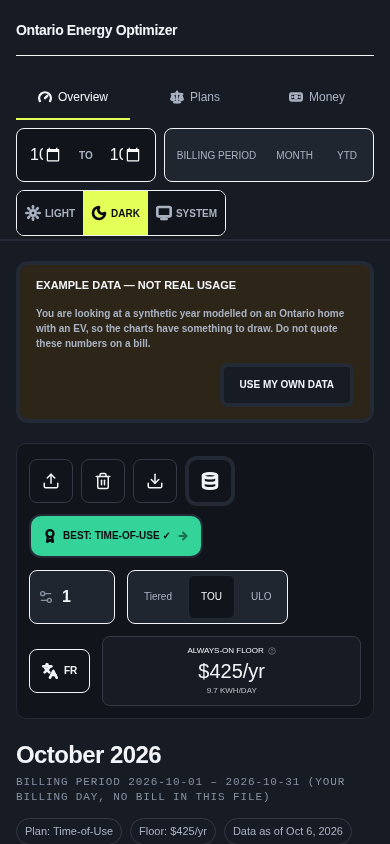
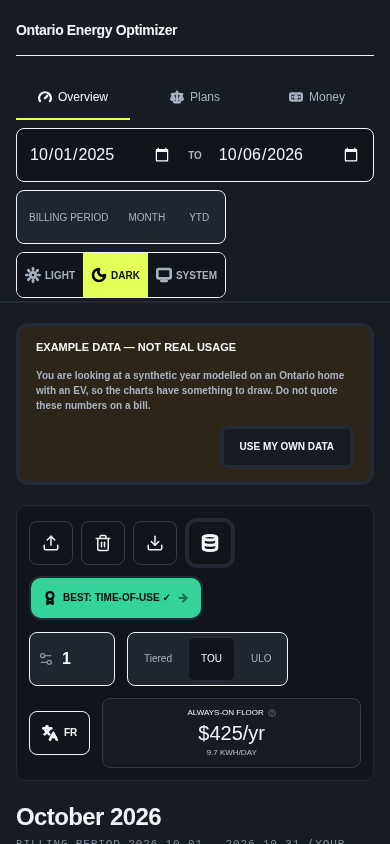
fix(ui): keep dashboard date inputs legible on mobile

diff --git a/webapp/src/components/Dashboard.tsx b/webapp/src/components/Dashboard.tsx
@@ -455,10 +455,10 @@ export default function Dashboard() {
      context for every tab, not a second, legacy toolbar below the content. */
   const dashboardContext = (
     <div data-testid="dashboard-context" className="flex min-w-0 flex-wrap items-center gap-2 md:gap-3">
-      <div data-testid="dashboard-date-range" className="flex min-w-0 flex-1 items-center gap-1 rounded-lg border border-edge-muted bg-card p-1 md:flex-none">
-        <input type="date" aria-label={t('toolbar.windowStart')} value={startDate} onChange={e => { setStartDate(e.target.value); setViewScope('Custom'); }} className="min-h-11 min-w-0 flex-1 bg-transparent px-2 py-2 text-base font-medium text-ink outline-none md:w-[9.5rem] md:flex-none md:text-sm" />
+      <div data-testid="dashboard-date-range" className="flex w-full flex-none items-center gap-1 rounded-lg border border-edge-muted bg-card p-1 md:w-auto">
+        <input type="date" aria-label={t('toolbar.windowStart')} value={startDate} onChange={e => { setStartDate(e.target.value); setViewScope('Custom'); }} className="min-h-11 min-w-[7rem] flex-1 bg-transparent px-2 py-2 text-base font-medium text-ink outline-none md:w-[9.5rem] md:min-w-0 md:flex-none md:text-sm" />
         <span data-testid="window-separator" className="shrink-0 px-1 text-[10px] font-semibold text-ink-2">{t('toolbar.to')}</span>
-        <input type="date" aria-label={t('toolbar.windowEnd')} value={endDate} onChange={e => { setEndDate(e.target.value); setViewScope('Custom'); }} className="min-h-11 min-w-0 flex-1 bg-transparent px-2 py-2 text-base font-medium text-ink outline-none md:w-[9.5rem] md:flex-none md:text-sm" />
+        <input type="date" aria-label={t('toolbar.windowEnd')} value={endDate} onChange={e => { setEndDate(e.target.value); setViewScope('Custom'); }} className="min-h-11 min-w-[7rem] flex-1 bg-transparent px-2 py-2 text-base font-medium text-ink outline-none md:w-[9.5rem] md:min-w-0 md:flex-none md:text-sm" />
       </div>
       <div data-testid="dashboard-scope" className="flex shrink-0 items-center gap-1 rounded-lg border border-edge-muted bg-hover p-1">
         <button type="button" aria-pressed={viewScope === 'BillingPeriod'} onClick={() => { applyViewScope('BillingPeriod'); setZoomLevelAndClear('monthly'); }} className={`inline-flex min-h-11 min-w-11 items-center justify-center rounded-md px-2 py-2 text-[10px] font-medium uppercase transition-colors ${viewScope === 'BillingPeriod' ? 'bg-card text-ink' : 'text-ink-2 hover:bg-card'}`}>{t('scope.billingPeriod')}</button>

diff --git a/webapp/tests/e2e/quiet-meter-shell.spec.ts b/webapp/tests/e2e/quiet-meter-shell.spec.ts
@@ -62,6 +62,38 @@ for (const viewport of VIEWPORTS) {
         expect(await toolbar.locator('input[type="date"]').count()).toBe(0);
         expect(await context.locator('input[type="date"]').count()).toBe(2);
 
+        const dateInputs = context.locator('input[type="date"]');
+        const [dateRangeBox, scopeBox, dateBoxes] = await Promise.all([
+          page.getByTestId('dashboard-date-range').boundingBox(),
+          page.getByTestId('dashboard-scope').boundingBox(),
+          dateInputs.evaluateAll((inputs) => inputs.map((input) => ({
+            width: input.getBoundingClientRect().width,
+            height: input.getBoundingClientRect().height,
+            clientWidth: input.clientWidth,
+            scrollWidth: input.scrollWidth,
+            value: (input as HTMLInputElement).value,
+          }))),
+        ]);
+        expect(dateRangeBox).not.toBeNull();
+        expect(scopeBox).not.toBeNull();
+        expect(dateBoxes).toHaveLength(2);
+
+        if (viewport.width === 390) {
+          // The range gets a dedicated mobile row.  Native date controls must
+          // remain wide enough to show their complete yyyy-mm-dd values.
+          expect(dateRangeBox!.width).toBeGreaterThanOrEqual(2 * 110);
+          for (const date of dateBoxes) {
+            expect(date.width).toBeGreaterThanOrEqual(110);
+            expect(date.height).toBeGreaterThanOrEqual(44);
+            expect(date.scrollWidth).toBeLessThanOrEqual(date.clientWidth);
+            expect(date.value).toMatch(/^\d{4}-\d{2}-\d{2}$/);
+          }
+          expect(scopeBox!.y).toBeGreaterThan(dateRangeBox!.y);
+        } else {
+          // Desktop retains the compact inline date/scope context row.
+          expect(Math.abs(scopeBox!.y - dateRangeBox!.y)).toBeLessThanOrEqual(1);
+        }
+
         await context.getByRole('button', { name: 'Month' }).click();
         await expect(context.getByRole('button', { name: 'Month' })).toHaveAttribute('aria-pressed', 'true');
 

diff --git a/webapp/src/components/Dashboard.test.tsx b/webapp/src/components/Dashboard.test.tsx
@@ -93,7 +93,7 @@ describe('Dashboard', () => {
   it('renders date inputs', async () => {
     await renderLoaded();
     const dateInputs = document.querySelectorAll('input[type="date"]');
-    expect(dateInputs.length).toBeGreaterThanOrEqual(2);
+    expect(dateInputs).toHaveLength(2);
   });
 
   it('keeps the date range and scope pills in the persistent shell, not the legacy toolbar', async () => {
